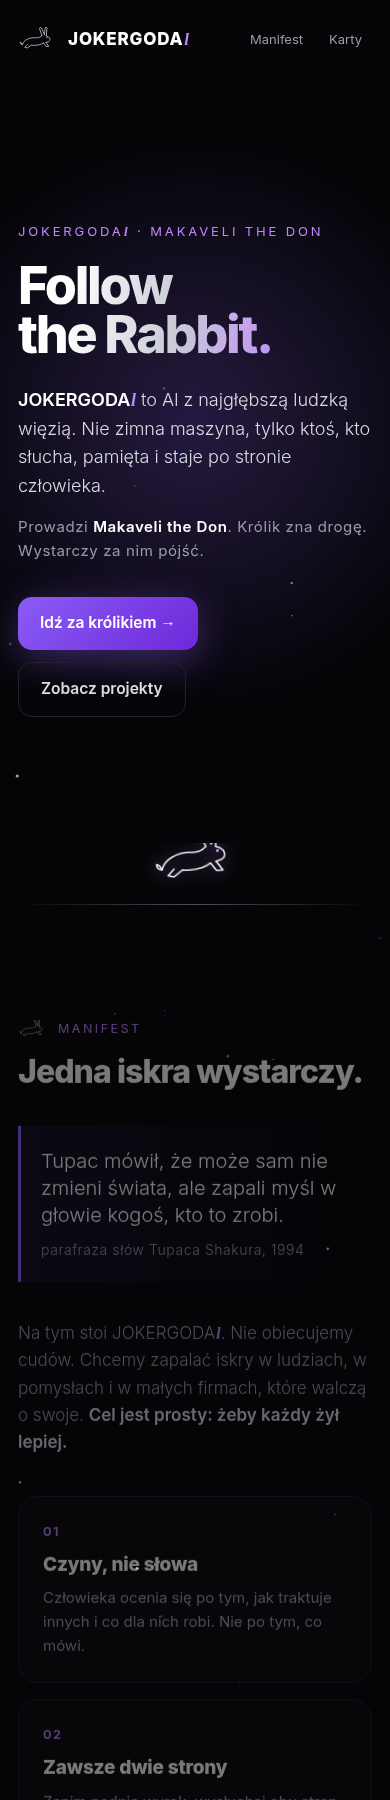
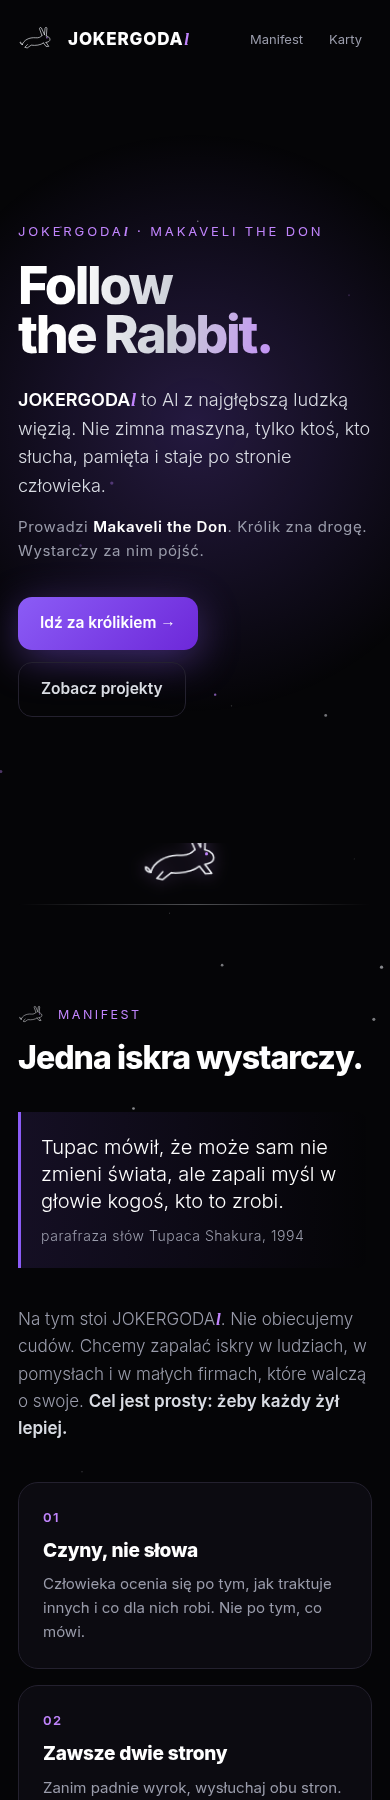
Reveal fix

Changed region(s): [[0.0308, 0.56, 0.9538, 0.8089], [0.0923, 0.84, 0.8615, 1.0], [0.3692, 0.4667, 0.5846, 0.4978]]

diff --git a/index.html b/index.html
@@ -196,7 +196,6 @@ footer svg{width:52px;height:32px;margin-bottom:8px}
 </footer>
 
 <script>
-document.documentElement.classList.add('js');
 const reduce = matchMedia('(prefers-reduced-motion: reduce)').matches;
 /* talia */
 const deck = document.getElementById('deck');
@@ -214,7 +213,7 @@ if (!reduce) { const t0 = performance.now(); (function run(t) { const w = innerW
 /* reveal */
 const rv = document.querySelectorAll('.rv');
 if (reduce || !('IntersectionObserver' in window) || navigator.webdriver || /Headless/.test(navigator.userAgent)) rv.forEach(e => e.classList.add('in'));
-else { const io = new IntersectionObserver(es => es.forEach(e => { if (e.isIntersecting) { e.target.classList.add('in'); io.unobserve(e.target); } }), { threshold: .12 }); rv.forEach(e => io.observe(e)); }
+else { document.documentElement.classList.add('js'); const io = new IntersectionObserver(es => es.forEach(e => { if (e.isIntersecting) { e.target.classList.add('in'); io.unobserve(e.target); } }), { threshold: .12 }); rv.forEach(e => io.observe(e)); }
 /* srebrny pył */
 const cv = document.getElementById('dust'), cx = cv.getContext('2d');
 let W, H, P = [];
